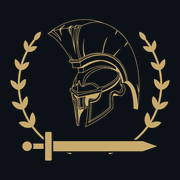
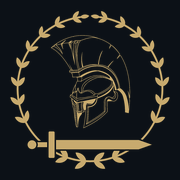
Redesign header and hero, update services and contacts
Enlarge the header and remove its booking button, place the headline,
rotating emblem and office hours side by side without overlap, use the
new logo, replace the services text, rename the lawyer and add the
office address with a map link.

Changed region(s): [[0.0556, 0.0556, 0.9444, 0.9444]]

diff --git a/css/style.css b/css/style.css
@@ -18,7 +18,7 @@
   --sans: "Montserrat", "Segoe UI", Arial, sans-serif;
   --gutter: clamp(20px, 5vw, 56px);
   --section: clamp(72px, 10vw, 128px);
-  --header: 76px;
+  --header: 104px;
 }
 
 *, *::before, *::after { box-sizing: border-box; }
@@ -83,16 +83,16 @@ h3 { font-family: var(--sans); font-size: 21px; font-weight: 500; line-height: 1
   transition: background-color .25s, border-color .25s;
 }
 .site-header.is-scrolled, .site-header.is-open { background: rgba(12, 17, 23, .97); border-color: var(--line-dark); }
-.header-inner { display: flex; align-items: center; justify-content: space-between; gap: 24px; min-height: var(--header); }
+.header-inner { display: flex; align-items: center; justify-content: space-between; gap: 24px; max-width: 1640px; min-height: var(--header); }
 
-.brand { display: inline-flex; align-items: center; gap: 12px; font-family: var(--sans); font-size: 19px; font-weight: 500; line-height: 1.1; letter-spacing: .01em; text-decoration: none; }
+.brand { display: inline-flex; align-items: center; gap: 16px; font-family: var(--sans); font-size: 27px; font-weight: 500; line-height: 1.1; letter-spacing: .01em; text-decoration: none; }
 .brand-text { display: grid; gap: 2px; }
-.brand small { color: var(--on-dark-muted); font-family: var(--sans); font-size: 10px; font-weight: 600; letter-spacing: .14em; line-height: 1.2; text-transform: uppercase; white-space: nowrap; }
+.brand small { color: var(--on-dark-muted); font-family: var(--sans); font-size: 13px; font-weight: 600; letter-spacing: .14em; line-height: 1.2; text-transform: uppercase; white-space: nowrap; }
 .brand em { color: var(--brass-strong); font-style: normal; }
-.brand-mark { flex: none; width: 58px; height: 58px; }
+.brand-mark { flex: none; width: 84px; height: 84px; }
 
-.site-nav { display: flex; align-items: center; gap: clamp(14px, 2vw, 30px); font-size: 14px; font-weight: 500; white-space: nowrap; }
-.site-nav a:not(.btn) { position: relative; padding: 6px 0; text-decoration: none; }
+.site-nav { display: flex; align-items: center; gap: clamp(22px, 2.8vw, 48px); font-size: 18px; font-weight: 500; white-space: nowrap; }
+.site-nav a:not(.btn) { position: relative; padding: 10px 0; text-decoration: none; }
 .site-nav a:not(.btn)::after {
   content: ""; position: absolute; left: 0; right: 0; bottom: 0; height: 1px;
   background: var(--brass); transform: scaleX(0); transform-origin: left; transition: transform .2s;
@@ -110,33 +110,43 @@ h3 { font-family: var(--sans); font-size: 21px; font-weight: 500; line-height: 1
 .hero {
   position: relative; overflow: hidden; isolation: isolate;
   display: flex; align-items: center;
-  min-height: min(100svh, 900px);
-  padding-block: calc(var(--header) + 56px) 72px;
+  min-height: 100svh;
+  padding-block: calc(var(--header) + 28px) 48px;
   background: radial-gradient(circle at 76% 34%, #202b37 0, var(--ink-2) 38%, var(--ink) 74%);
   color: var(--on-dark);
 }
-.hero-emblem {
-  position: absolute; z-index: -1; top: 50%; right: max(-120px, calc(50% - 780px));
-  width: min(820px, 76vw); aspect-ratio: 1; transform: translateY(-50%);
-  opacity: .2; pointer-events: none;
+.hero-grid {
+  display: grid; grid-template-columns: minmax(0, 1.08fr) minmax(0, .92fr);
+  grid-template-areas: "copy emblem" "card emblem";
+  gap: 32px clamp(40px, 5vw, 96px); align-items: center;
+  max-width: 1640px;
 }
-.hero-wreath, .hero-helmet { position: absolute; height: auto; }
-.hero-wreath { inset: 0; width: 100%; animation: wreath-spin 90s linear infinite; will-change: transform; }
-.hero-helmet { top: -3.94%; left: -3.94%; width: 107.89%; max-width: none; }
+.hero-copy { grid-area: copy; align-self: end; }
+.hero-emblem {
+  grid-area: emblem; position: relative; justify-self: center;
+  width: min(100%, 760px, calc(100svh - var(--header) - 76px)); aspect-ratio: 1;
+  opacity: .78; pointer-events: none;
+}
+.hero-wreath, .hero-helmet { position: absolute; inset: 0; width: 100%; height: 100%; }
+.hero-wreath { animation: wreath-spin 90s linear infinite; will-change: transform; }
 @keyframes wreath-spin { to { transform: rotate(360deg); } }
-.hero-grid { display: grid; grid-template-columns: minmax(0, 1.55fr) minmax(300px, .75fr); gap: clamp(40px, 7vw, 104px); align-items: end; }
 .hero .eyebrow { color: var(--brass-strong); }
-.hero h1 { max-width: 14em; font-size: clamp(35px, 5vw, 68px); }
+.hero h1 { max-width: 13em; font-size: clamp(33px, 4.5vw, 72px); }
 .hero h1 span { color: var(--brass-strong); font-style: italic; }
-.lead { max-width: 37em; margin-top: 28px; color: #c9ccd0; font-size: clamp(16px, 1.3vw, 18px); font-weight: 300; }
-.hero-actions { display: flex; flex-wrap: wrap; gap: 14px; margin-top: 38px; }
+.lead { max-width: 37em; margin-top: 22px; color: #c9ccd0; font-size: clamp(16px, 1.3vw, 18px); font-weight: 300; }
+.hero-actions { display: flex; flex-wrap: wrap; gap: 14px; margin-top: 30px; }
 
-.hero-card { padding: 32px; border: 1px solid var(--line-dark); background: rgba(12, 17, 23, .78); }
+.hero-card {
+  grid-area: card; align-self: start;
+  display: grid; grid-template-columns: auto minmax(0, 1fr); gap: 32px; align-items: center;
+  max-width: 720px; padding: 24px 28px;
+  border: 1px solid var(--line-dark); background: rgba(12, 17, 23, .78);
+}
 .card-label { color: var(--brass-strong); font-size: 13px; font-weight: 700; letter-spacing: .16em; text-transform: uppercase; }
 .card-time { margin-top: 14px; font-family: var(--sans); font-size: 28px; font-weight: 300; line-height: 1.1; white-space: nowrap; }
 .card-time span { color: var(--on-dark-muted); font-size: 16px; font-style: italic; }
 .card-days { margin-top: 8px; color: var(--on-dark-muted); font-size: 15px; }
-.hero-card ul { display: grid; gap: 10px; margin-top: 24px; padding-top: 22px; border-top: 1px solid var(--line-dark); font-size: 15px; line-height: 1.45; }
+.hero-card ul { display: grid; gap: 8px; padding-left: 32px; border-left: 1px solid var(--line-dark); font-size: 14px; line-height: 1.45; }
 .hero-card li { position: relative; padding-left: 20px; }
 .hero-card li::before { content: ""; position: absolute; left: 0; top: .55em; width: 7px; height: 7px; background: var(--brass); transform: rotate(45deg); }
 
@@ -146,22 +156,18 @@ h3 { font-family: var(--sans); font-size: 21px; font-weight: 500; line-height: 1
 .section-dark .eyebrow { color: var(--brass-strong); }
 .section-head { max-width: 760px; margin-bottom: clamp(40px, 6vw, 72px); }
 
-.practice-grid { display: grid; grid-template-columns: repeat(2, minmax(0, 1fr)); border-top: 1px solid var(--line-light); border-left: 1px solid var(--line-light); }
+.practice-grid { display: grid; grid-template-columns: repeat(3, minmax(0, 1fr)); border-top: 1px solid var(--line-light); border-left: 1px solid var(--line-light); }
 .practice-card {
   position: relative; display: grid; align-content: start; gap: 12px;
-  min-height: 250px; padding: clamp(28px, 4vw, 44px);
+  padding: clamp(26px, 3vw, 40px);
   border-right: 1px solid var(--line-light); border-bottom: 1px solid var(--line-light);
   transition: background-color .25s, color .25s;
 }
-.practice-card p { max-width: 30em; color: var(--muted); transition: color .25s; }
-.practice-no { margin-bottom: 26px; color: var(--brass-deep); font-family: var(--sans); font-size: 17px; font-weight: 300; font-style: italic; transition: color .25s; }
+.practice-card p { color: var(--muted); font-size: 15px; transition: color .25s; }
+.practice-no { margin-bottom: 10px; color: var(--brass-deep); font-family: var(--sans); font-size: 17px; font-weight: 300; font-style: italic; transition: color .25s; }
 .practice-card:hover { background: var(--ink); color: var(--on-dark); }
 .practice-card:hover p { color: var(--on-dark-muted); }
 .practice-card:hover .practice-no { color: var(--brass-strong); }
-.practice-wide { grid-column: 1 / -1; grid-template-columns: 96px minmax(0, 1fr); min-height: 0; }
-.practice-wide .practice-no { margin: 2px 0 0; }
-.practice-wide h3 { margin-bottom: 10px; }
-.practice-wide p { max-width: 48em; }
 
 .steps { display: grid; grid-template-columns: repeat(4, minmax(0, 1fr)); counter-reset: step; border-top: 1px solid var(--line-dark); }
 .steps li { position: relative; padding: 34px 28px 0 0; counter-increment: step; }
@@ -227,6 +233,7 @@ details p { max-width: 42em; padding: 0 44px 24px 0; color: var(--muted); font-s
 .contact-list dd { min-width: 0; font-family: var(--sans); font-size: clamp(17px, 1.7vw, 22px); font-weight: 300; line-height: 1.3; text-align: right; overflow-wrap: anywhere; }
 .contact-list a { text-decoration: none; transition: color .2s; }
 .contact-list a:hover { color: var(--brass-strong); }
+.contact-list .contact-address { display: inline-block; font-size: clamp(15px, 1.25vw, 17px); line-height: 1.5; text-decoration: underline; text-decoration-color: var(--brass); text-underline-offset: 4px; }
 
 .site-footer { padding-block: 26px calc(26px + env(safe-area-inset-bottom, 0px)); background: #080c10; color: var(--on-dark-muted); font-size: 14px; }
 .footer-inner { display: flex; flex-wrap: wrap; justify-content: space-between; gap: 6px 24px; }
@@ -237,15 +244,7 @@ details p { max-width: 42em; padding: 0 44px 24px 0; color: var(--muted); font-s
 .js .reveal { opacity: 0; transform: translateY(18px); transition: opacity .6s ease, transform .6s ease, background-color .25s, color .25s; }
 .js .reveal.is-visible { opacity: 1; transform: none; }
 
-@media (max-width: 1040px) {
-  .hero-grid { grid-template-columns: 1fr; align-items: start; }
-  .hero-card { max-width: 520px; }
-  .steps { grid-template-columns: repeat(2, minmax(0, 1fr)); row-gap: 28px; border-top: 0; }
-  .steps li { border-top: 1px solid var(--line-dark); }
-  .team-grid { grid-template-columns: 1fr; }
-}
-
-@media (max-width: 900px) {
+@media (max-width: 1180px) {
   .nav-toggle { display: block; }
   .site-nav {
     position: fixed; inset: calc(var(--header) + env(safe-area-inset-top, 0px)) 0 0;
@@ -256,25 +255,34 @@ details p { max-width: 42em; padding: 0 44px 24px 0; color: var(--muted); font-s
   .site-header.is-open .site-nav { display: flex; }
   .site-nav a:not(.btn) { padding: 15px 0; border-bottom: 1px solid var(--line-dark); }
   .site-nav a:not(.btn)::after { display: none; }
-  .site-nav .btn { margin-top: 24px; min-height: 54px; font-family: var(--sans); font-size: 15px; }
+}
+
+@media (max-width: 1040px) {
+  .hero-grid { grid-template-columns: minmax(0, 1fr); grid-template-areas: "copy" "emblem" "card"; }
+  .hero-emblem { width: min(100%, 560px); }
+  .hero-card { width: 100%; justify-self: center; }
+  .practice-grid { grid-template-columns: minmax(0, 1fr); }
+  .steps { grid-template-columns: repeat(2, minmax(0, 1fr)); row-gap: 28px; border-top: 0; }
+  .steps li { border-top: 1px solid var(--line-dark); }
+  .team-grid { grid-template-columns: 1fr; }
+}
+
+@media (max-width: 900px) {
   .faq-layout, .contacts-grid { grid-template-columns: 1fr; }
   .cta-inner { flex-direction: column; align-items: flex-start; }
 }
 
 @media (max-width: 640px) {
   body { font-size: 15px; padding-bottom: calc(64px + env(safe-area-inset-bottom, 0px)); }
-  :root { --header: 66px; }
-  .brand { gap: 10px; font-size: 17px; }
-  .brand small { font-size: 9px; }
-  .brand-mark { width: 50px; height: 50px; }
-  .hero { min-height: 0; padding-block: calc(var(--header) + 44px) 52px; }
-  .hero-emblem { width: 150vw; right: -70vw; opacity: .14; }
+  :root { --header: 78px; }
+  .brand { gap: 10px; font-size: 20px; }
+  .brand small { font-size: 10px; letter-spacing: .1em; }
+  .brand-mark { width: 62px; height: 62px; }
+  .hero { min-height: 0; padding-block: calc(var(--header) + 28px) 40px; }
   .hero-actions .btn { width: 100%; }
-  .hero-card { padding: 26px; }
-  .practice-grid { grid-template-columns: 1fr; }
-  .practice-card { min-height: 0; }
+  .hero-card { grid-template-columns: minmax(0, 1fr); gap: 18px; padding: 24px; }
+  .hero-card ul { padding: 18px 0 0; border-left: 0; border-top: 1px solid var(--line-dark); }
   .practice-no { margin-bottom: 8px; }
-  .practice-wide { grid-template-columns: 1fr; }
   .steps { grid-template-columns: 1fr; }
   .steps li { display: grid; grid-template-columns: 52px minmax(0, 1fr); padding: 24px 0 0; }
   .steps li::before { grid-row: span 2; margin: 0; font-size: 36px; }
@@ -292,7 +300,9 @@ details p { max-width: 42em; padding: 0 44px 24px 0; color: var(--muted); font-s
     padding-bottom: env(safe-area-inset-bottom, 0px);
     background: var(--btn); color: var(--ink);
     font-size: 15px; font-weight: 700; text-decoration: none;
+    transition: transform .25s, visibility .25s;
   }
+  .js .mobile-cta:not(.is-shown) { visibility: hidden; transform: translateY(100%); }
   .site-header.is-open ~ .mobile-cta { display: none; }
 }
 

diff --git a/index.html b/index.html
@@ -4,7 +4,7 @@
   <meta charset="utf-8">
   <meta name="viewport" content="width=device-width, initial-scale=1, viewport-fit=cover">
   <title>Адвокатське бюро «Рубікон» | Юридична допомога за попереднім записом</title>
-  <meta name="description" content="Цивільне, сімейне, господарське та кримінальне право. Представництво у судах і державних органах. Запис на консультацію онлайн через Telegram.">
+  <meta name="description" content="Адвокатське бюро «Рубікон», Полтава. Захист у кримінальних провадженнях, супровід у сфері мобілізації та військової служби, соціальний захист військовослужбовців. Запис на консультацію онлайн через Telegram.">
   <meta name="theme-color" content="#0c1117">
   <meta property="og:type" content="website">
   <meta property="og:locale" content="uk_UA">
@@ -38,21 +38,16 @@
         <a href="#team">Адвокати</a>
         <a href="#faq">Питання</a>
         <a href="#contacts">Контакти</a>
-        <a class="btn btn-small" href="https://t.me/vash_advokat_ua_bot" target="_blank" rel="noopener">Записатися</a>
       </nav>
     </div>
   </header>
 
   <main id="main">
     <section class="hero">
-      <div class="hero-emblem" aria-hidden="true">
-        <img class="hero-wreath" src="assets/logo-wreath.png" width="1000" height="1000" alt="">
-        <img class="hero-helmet" src="assets/logo-helmet.png" width="1000" height="1000" alt="">
-      </div>
       <div class="container hero-grid">
         <div class="hero-copy">
           <p class="eyebrow">Юридична допомога за попереднім записом</p>
-          <h1>Ваша справа заслуговує на <span>надійний захист</span></h1>
+          <h1>Ви заслуговуєте на <span>надійний захист</span></h1>
           <p class="lead">Консультуємо фізичних і юридичних осіб, допомагаємо визначити правову позицію та представляємо ваші інтереси у судах і державних органах.</p>
           <div class="hero-actions">
             <a class="btn" href="https://t.me/vash_advokat_ua_bot" target="_blank" rel="noopener">Записатися на консультацію</a>
@@ -60,10 +55,17 @@
           </div>
         </div>
 
+        <div class="hero-emblem" aria-hidden="true">
+          <img class="hero-wreath" src="assets/logo-wreath.png" width="1000" height="1000" alt="">
+          <img class="hero-helmet" src="assets/logo-helmet.png" width="1000" height="1000" alt="">
+        </div>
+
         <aside class="hero-card" aria-label="Графік прийому">
-          <p class="card-label">Прийом</p>
-          <p class="card-time">09:00 <span>до</span> 18:00</p>
-          <p class="card-days">Понеділок – п'ятниця</p>
+          <div class="card-hours">
+            <p class="card-label">Прийом</p>
+            <p class="card-time">09:00 <span>до</span> 18:00</p>
+            <p class="card-days">Понеділок – п'ятниця</p>
+          </div>
           <ul>
             <li>Онлайн-запис у Telegram цілодобово</li>
             <li>Вибір адвоката, дня та часу</li>
@@ -77,36 +79,26 @@
       <div class="container">
         <header class="section-head reveal">
           <p class="eyebrow">Напрями практики</p>
-          <h2>З чим ми допомагаємо</h2>
+          <h2>Види послуг</h2>
         </header>
 
         <div class="practice-grid">
           <article class="practice-card reveal">
             <span class="practice-no">01</span>
-            <h3>Цивільне право</h3>
-            <p>Договори, борги, відшкодування шкоди, майнові та спадкові питання.</p>
+            <p>Надання правової допомоги та захист осіб під час досудового розслідування у кримінальних провадженнях щодо корупційних, службових, господарських злочинах, злочинах проти встановленого порядку несення військової служби та правосуддя.</p>
+            <p>Надання консультацій та визначення алгоритму дій до повідомлення про підозру у кримінальних провадженнях щодо фізичної або юридичної особи, під час проведення обшуку, вилучення або арешту майна.</p>
+            <p>Оскарження протиправних дій та рішень слідчого/прокурора.</p>
           </article>
           <article class="practice-card reveal">
             <span class="practice-no">02</span>
-            <h3>Сімейне право</h3>
-            <p>Розірвання шлюбу, поділ майна, аліменти та питання щодо дітей.</p>
+            <p>Юридичний супровід та надання консультацій у сфері мобілізації, зокрема права та порядку отримання відстрочки від мобілізації, порядку несення військової служби, прав, гарантій та всіх видів забезпечення військовослужбовців, соціального захисту членів сімей військовослужбовців, осіб, зниклих безвісті за особливих обставин, загиблих Захисників/Захисниць України.</p>
           </article>
           <article class="practice-card reveal">
             <span class="practice-no">03</span>
-            <h3>Господарське право</h3>
-            <p>Супровід бізнесу, договірні відносини та вирішення господарських спорів.</p>
-          </article>
-          <article class="practice-card reveal">
-            <span class="practice-no">04</span>
-            <h3>Кримінальне право</h3>
-            <p>Правова допомога та захист на різних стадіях кримінального провадження.</p>
-          </article>
-          <article class="practice-card practice-wide reveal">
-            <span class="practice-no">05</span>
-            <div>
-              <h3>Представництво інтересів</h3>
-              <p>Представляємо фізичних та юридичних осіб у судах і державних органах, готуємо процесуальні документи та звернення.</p>
-            </div>
+            <p>Підготовка заяв, скарг, позовних заяв та участь у адміністративних та цивільних справах у спорах з органами влади у сфері соціального захисту військовослужбовців, їх сімей, працівників правоохоронних органів, пенсіонерів ЗСУ та силових структур.</p>
+            <p>Захист прав на належне грошове забезпечення, пенсію, забезпечення житлом, компенсацій та одноразових виплат від держави.</p>
+            <p>Оскарження неправомірних наказів про притягнення до дисциплінарної/матеріальної відповідальності військовослужбовців.</p>
+            <p>Скасування в судовому порядку інших неправомірних рішень та індивідуальних актів суб’єктів владних повноважень.</p>
           </article>
         </div>
       </div>
@@ -147,7 +139,7 @@
           <article class="lawyer reveal">
             <div class="monogram" aria-hidden="true">В</div>
             <div>
-              <h3>Адвокат Влад</h3>
+              <h3>Адвокат Владислав</h3>
               <p>Консультація, правова позиція та представництво інтересів клієнта.</p>
               <a class="phone" href="tel:+380502371782">+380 50 237 1782</a>
             </div>
@@ -215,9 +207,10 @@
 
         <dl class="contact-list reveal">
           <div><dt>Адвокат Денис</dt><dd><a href="tel:+380955659399">+380 95 565 9399</a></dd></div>
-          <div><dt>Адвокат Влад</dt><dd><a href="tel:+380502371782">+380 50 237 1782</a></dd></div>
+          <div><dt>Адвокат Владислав</dt><dd><a href="tel:+380502371782">+380 50 237 1782</a></dd></div>
           <div><dt>Telegram</dt><dd><a href="https://t.me/vash_advokat_ua_bot" target="_blank" rel="noopener">@vash_advokat_ua_bot</a></dd></div>
           <div><dt>Графік</dt><dd>Пн–Пт, 09:00–18:00</dd></div>
+          <div><dt>Адреса</dt><dd><a class="contact-address" href="https://www.google.com/maps/search/%D0%B1%D1%96%D0%B7%D0%BD%D0%B5%D1%81+%D1%86%D0%B5%D0%BD%D1%82%D1%80+%D0%BF%D0%BE%D0%BB%D1%82%D0%B0%D0%B2%D0%B0+%D0%BA%D0%BE%D1%82%D0%BB%D1%8F%D1%80%D0%B5%D0%B2%D1%81%D1%8C%D0%BA%D0%BE%D0%B3%D0%BE/@49.5851865,34.5500907,16.17z?entry=ttu&amp;g_ep=EgoyMDI1MDEwOC4wIKXMDSoASAFQAw%3D%3D" target="_blank" rel="noopener">Бізнес-центр «Сучасний дім»<br>м. Полтава, вул. Котляревського, 22б<br>4 поверх, офіс 403</a></dd></div>
         </dl>
       </div>
     </section>

diff --git a/js/main.js b/js/main.js
@@ -20,13 +20,24 @@
       toggle.focus();
     }
   });
-  window.matchMedia("(min-width: 901px)").addEventListener("change", (event) => {
+  window.matchMedia("(min-width: 1181px)").addEventListener("change", (event) => {
     if (event.matches) setMenu(false);
   });
 
   const updateHeader = () => header.classList.toggle("is-scrolled", window.scrollY > 24);
   updateHeader();
   window.addEventListener("scroll", updateHeader, { passive: true });
+
+  // На телефоні нижня кнопка з'являється лише після того, як основна зникла з екрана.
+  const mobileCta = document.querySelector(".mobile-cta");
+  const heroActions = document.querySelector(".hero-actions");
+  if ("IntersectionObserver" in window) {
+    new IntersectionObserver(([entry]) => {
+      mobileCta.classList.toggle("is-shown", !entry.isIntersecting);
+    }).observe(heroActions);
+  } else {
+    mobileCta.classList.add("is-shown");
+  }
 
   const revealItems = document.querySelectorAll(".reveal");
   if ("IntersectionObserver" in window) {
